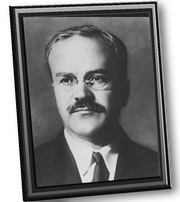
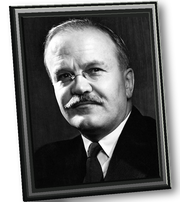
Replace Molotov committee portrait

diff --git a/MOD制作日志.md b/MOD制作日志.md
@@ -1485,3 +1485,7 @@ mio:RUS_example_organization = {
 - 将实际使用且正文过长的十三个事件拆为连续两页，原事件入口与原有效果保持不变；第一页仅负责继续阅读，第二页沿用原标题和配图并承接原按钮及后续事件。简中、英文、俄文按相同语义位置分段，新续页 ID 均已完成跨模组占用检查。本轮仅修改测试版开发目录，不同步上传目录。
 - 为“破镜重圆的社会革命党”增加“多讲讲社会革命党。”选项，新增“社会革命党现状”介绍事件并补齐中、英、俄三语；介绍页最终按钮执行与原选项相同的党名及支持率结算，原直接结算选项保持不变。
 - 修复国策图标链路：将“工业化欧洲俄罗斯”的错误 sprite 引用改回 KR 正确的 `GFX_goal_RUS_european_russia_industry`；为成立苏联分支十七个旧自定义国策图标补齐标准 `_shine` 高光 sprite，并将普通图标设为非懒加载。全树 475 个图标引用现均可解析，所有本模组自定义纹理路径均有效。
+
+### 2026-09-05
+
+- 按用户提供的新照片替换测试版欧洲革命委员会外交界面中的莫洛托夫头像源图，并沿用现有倾斜金属框生成流程重建 `180×202` RGBA 成品；头像构图改为更紧凑的正面近景，捷尔任斯基头像及界面布局保持不变。
